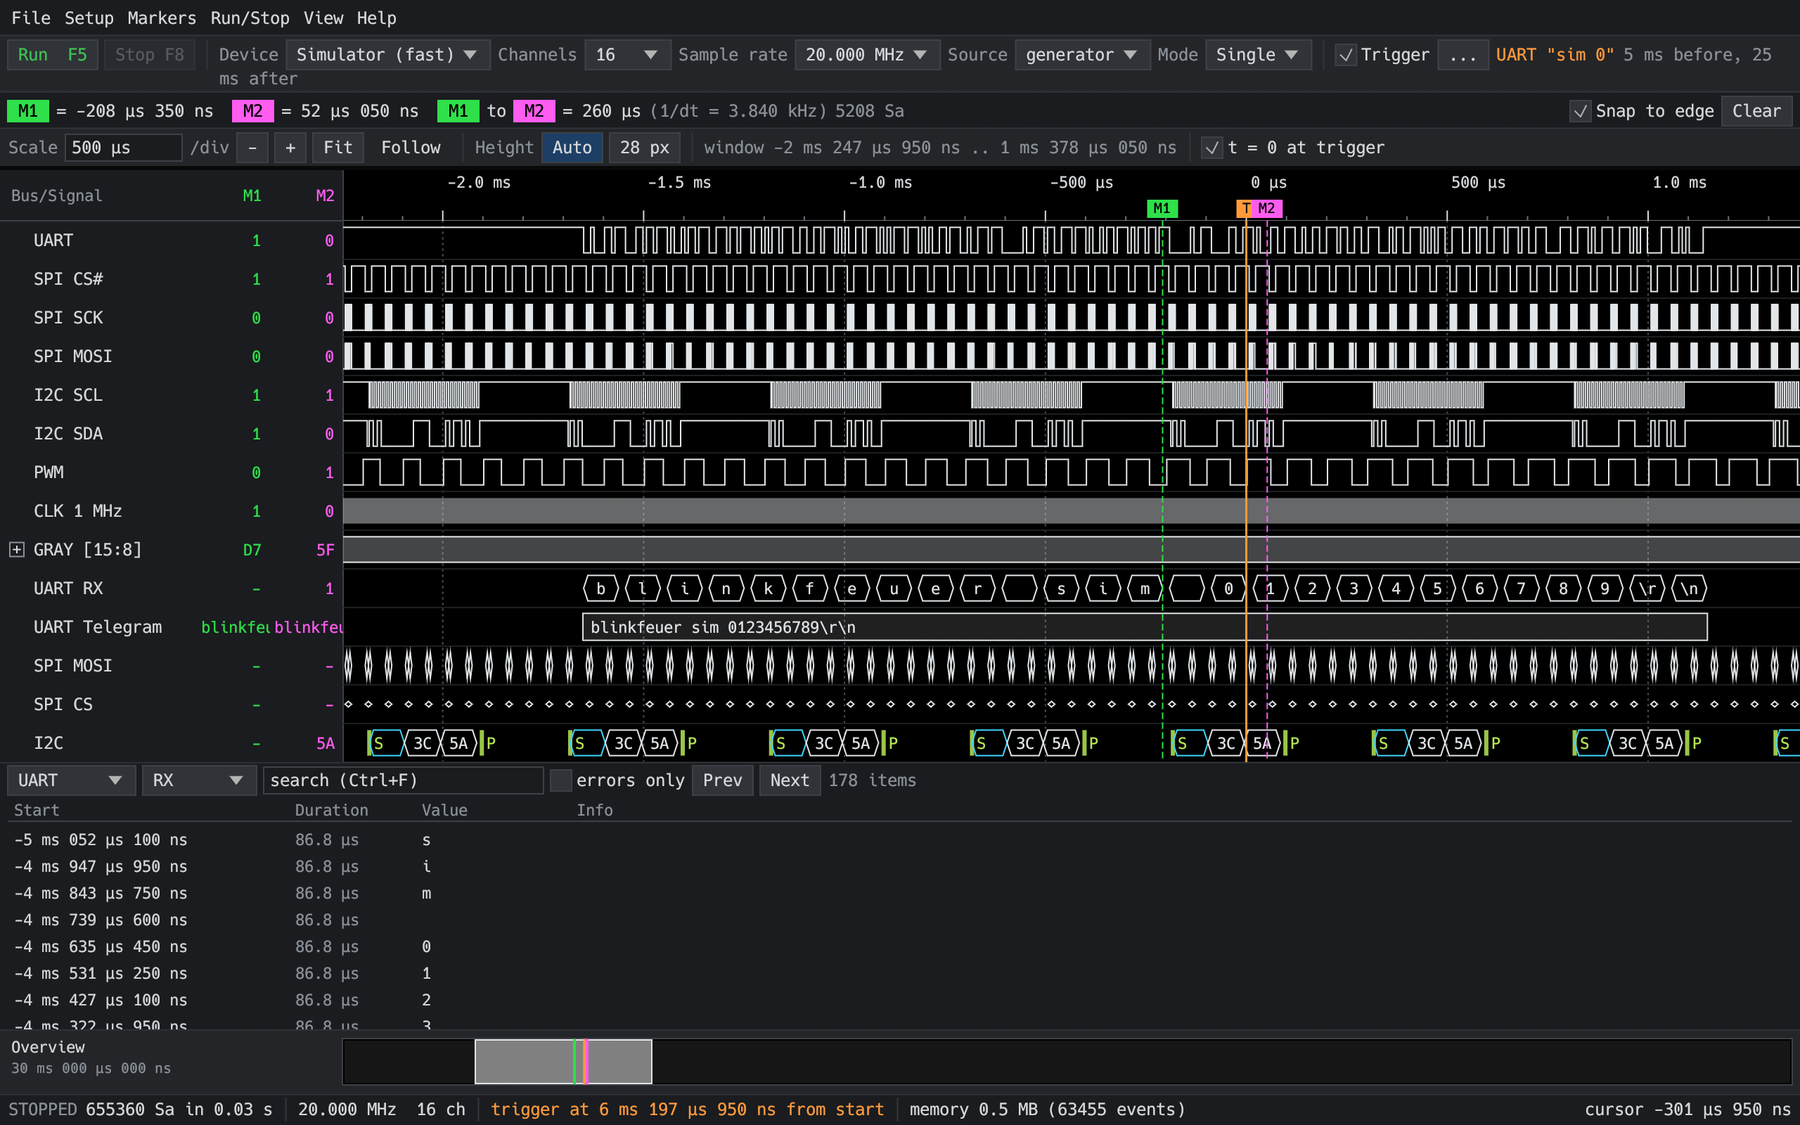
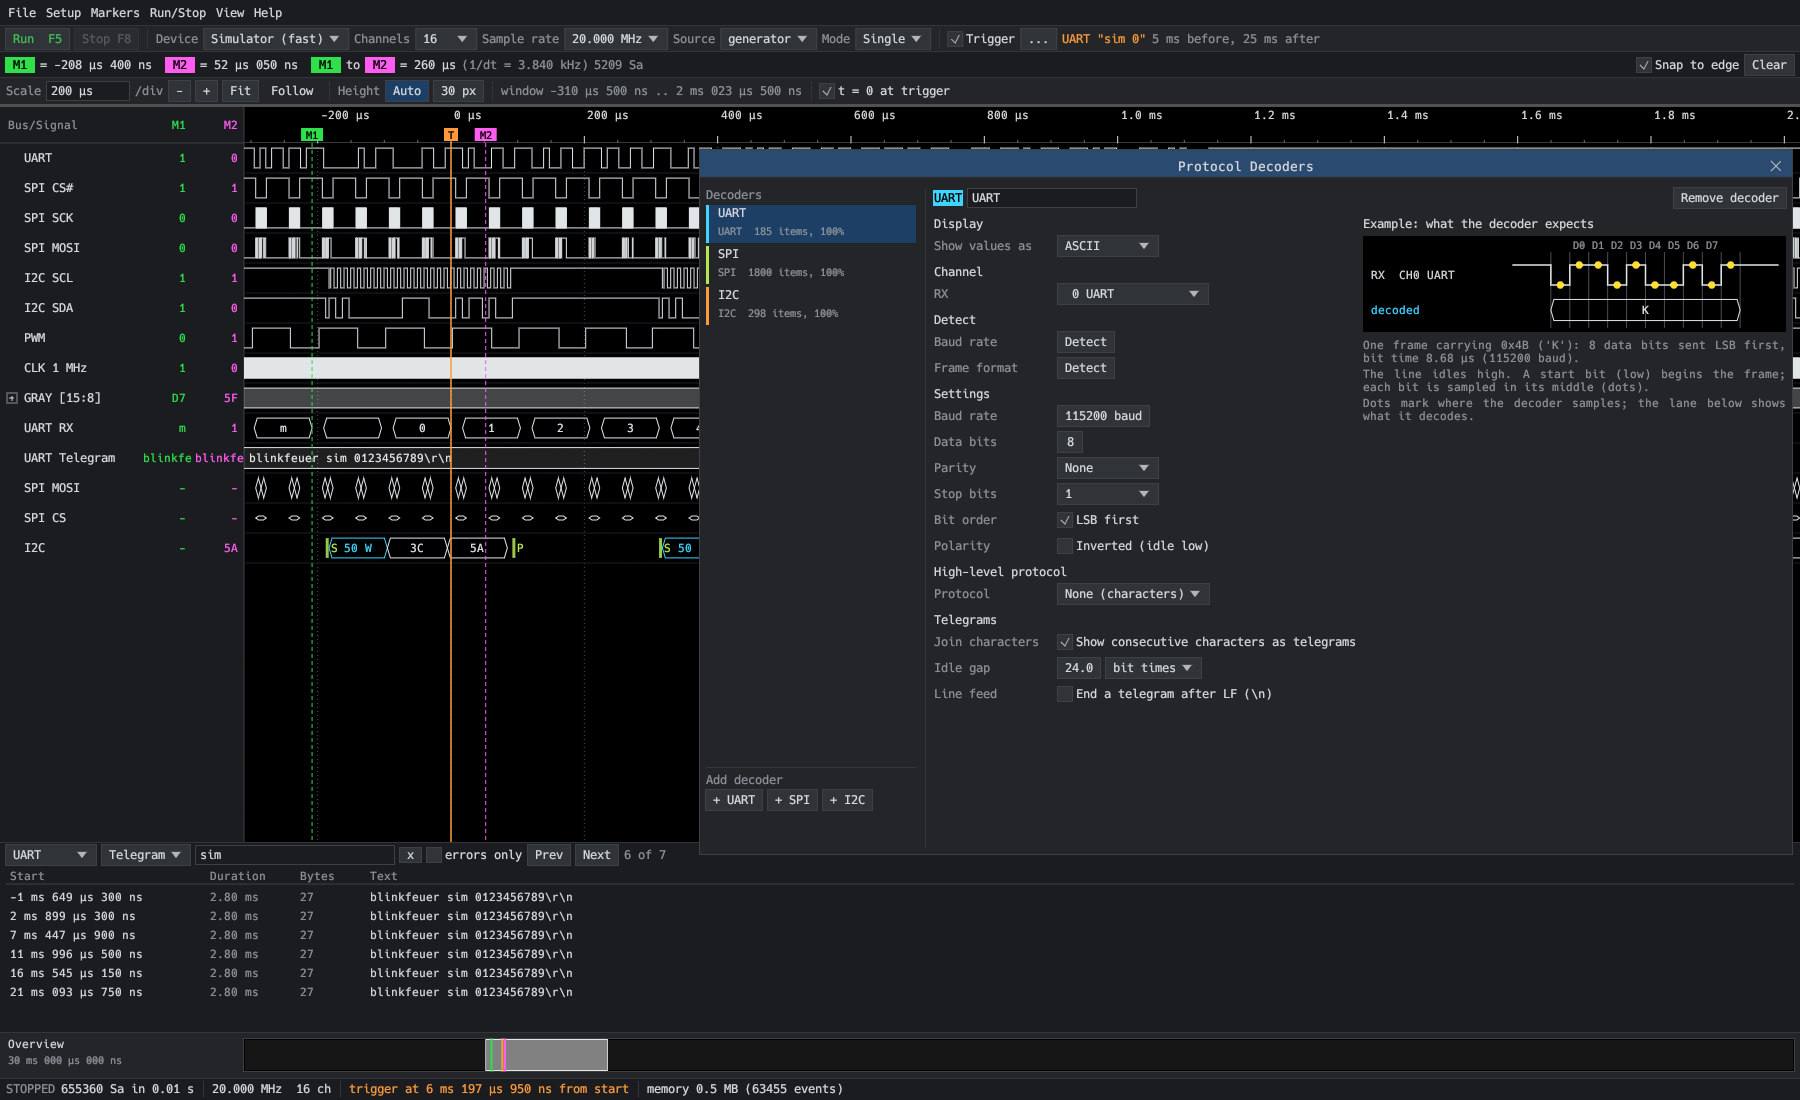
README: bring up to date, new screenshot
The README describes the pattern search of the decode table, decoder
settings shared with the trigger, the trigger example, Modbus frames in
the trigger, zoom at the pointer and the run/stop keys, and the FX2
backend as used with real signals. The screenshot shows the decoder
setup and the decode table next to the waveform; docs/screenshot.sh
makes it again.

diff --git a/README.md b/README.md
@@ -9,11 +9,12 @@ changes, so quiet signals cost almost no memory.
 
 *Blinkfeuer* is the old German word for a flashing beacon, the light that tells you something is out there.
 
-![Blinkfeuer showing a triggered capture of the simulator: UART, SPI and I2C decoded, with markers and the decode table](docs/screenshot.png)
+![Blinkfeuer showing a triggered capture of the simulator with UART, SPI and I2C decoded, the decoder setup and the decode table](docs/screenshot.png)
 
 The screenshot shows a capture of the built-in simulator, triggered on the UART text "sim 0" (the orange **T**), with
-the UART characters grouped into a telegram, SPI words, I2C transactions, two markers and the decode table.
-Times are counted from the trigger.
+the UART characters grouped into a telegram, SPI words, I2C transactions and two markers. The protocol decoder
+setup shows the UART settings next to an example of what the decoder expects; the decode table below lists the
+telegrams that contain "sim". Times are counted from the trigger. `docs/screenshot.sh` makes it again.
 
 It is made for the [Sipeed SLogic16U3](https://wiki.sipeed.com/hardware/en/logic_analyzer/slogic16u3/slogic16u3.html)
 (16 channels, USB 3), and has a simulator so you can try everything without hardware. Cheap 8 channel FX2
@@ -30,7 +31,8 @@ A working first version. What is verified and what is not:
   application when the analyzer runs it): written from the gateware's own library and tested against a fake
   register file, but **not yet run on the real device**. Everything except the USB calls is covered by tests.
 - **FX2 analyzers with fx2lafw** (`bfcli --device fx2lafw`, selectable in the application when one is attached):
-  8 channels, 20 kHz to 24 MHz, no threshold and no test patterns. blinkfeuer loads the firmware itself
+  8 channels, 20 kHz to 24 MHz, no threshold and no test patterns. Used on a Saleae Logic clone with real
+  signals (UART / Modbus RTU at 16 MHz, also through usbipd under WSL). blinkfeuer loads the firmware itself
   from sigrok's firmware directory, so install it first (Debian/Ubuntu: `sigrok-firmware-fx2lafw`; or set
   `BLINKFEUER_FIRMWARE_DIR`). The firmware cannot report lost data: when the host falls behind, the
   capture silently has a gap.
@@ -38,8 +40,8 @@ A working first version. What is verified and what is not:
 
 ## Features
 
-- **Live view** with zoom, pan, follow mode and an overview strip. Scale is given in time per division,
-  with times shown in groups ("10 ms 000 µs 400 ns").
+- **Live view** with zoom (at the pointer), pan, follow mode and an overview strip. Scale is given in
+  time per division, with times shown in groups ("10 ms 000 µs 400 ns"). F5 runs, F8 or Shift+F5 stops.
 - **Markers** M1 and M2 that snap to edges, with their delta and 1/dt; per-row values at the markers.
   The cursor keys move M1 (Shift: M2) from edge to edge of the selected row, or from item to item on a
   decoder row; Up/Down select the row, Home or F shows the whole capture.
@@ -52,15 +54,24 @@ A working first version. What is verified and what is not:
 - **Modbus RTU** on top of the UART decoder: frames found by the pause between them and checked by their
   CRC (also when a device answers too fast), each frame split into address, function, registers,
   values and CRC, with requests and responses told apart where the function allows it.
-- **Decode table** of the decoded items with search; clicking in the table moves the waveform and vice versa.
+- **Decode table** of the decoded items; clicking in the table moves the waveform and vice versa. The
+  search takes text or a pattern in the trigger language below: on characters, words or I2C events it
+  lists every item of a match, telegrams and Modbus frames are listed when they contain one.
 - **Triggers** (done on the host, the analyzer has none in hardware): level and edge conditions on any
-  channels, or a protocol trigger with a pattern: UART text or bytes, SPI words, or I2C events (S, Sr,
-  P, @50W addresses, data bytes, ! for NAK), each with X for free nibbles or bits and * for anything in
-  between, optionally also firing on the protocol's error (UART framing/parity error, incomplete SPI
-  word, I2C NAK); with Modbus RTU in the UART settings the pattern applies to whole frames from their
-  first byte, or to frames with a bad CRC. The trigger point is the start or the end of the match. Pre-trigger and
-  post-trigger are set separately in samples or time, times can be shown relative to the trigger, and a
-  triggered capture stops instead of dropping data when memory is full.
+  channels, or a protocol trigger with a pattern:
+  - UART text or bytes, SPI words, or I2C events (S, Sr, P, @50W addresses, data bytes, ! for NAK);
+  - X for free nibbles or bits (`4X`, `XX`, `0b1010XXXX`) and `*` for anything in between, e.g.
+    `S @50W 01 XX P`;
+  - optionally also firing on the protocol's error (UART framing/parity error, incomplete SPI word,
+    I2C NAK);
+  - with Modbus RTU in the UART settings the pattern applies to whole frames from their first byte
+    (`65 06 01 01`), or to frames with a bad CRC.
+
+  A protocol trigger can take its decoder settings from a decoder ("Settings from"), so they are set
+  only once, and the trigger window shows an example of what it looks for with the trigger point
+  marked. The trigger point is the start or the end of the match. Pre-trigger and post-trigger are set
+  separately in samples or time, times can be shown relative to the trigger, and a triggered capture
+  stops instead of dropping data when memory is full.
 - **Measurements** (View menu): edges, frequency, period, duty cycle and the shortest, mean and longest
   high and low pulse of every shown channel, over the visible window, between the markers or over the whole
   capture; copy as CSV.
@@ -117,7 +128,7 @@ analyzer does not show up on a port that worked before, rebinding the host contr
 |---|---|
 | `bf-core` | Sample formats, the capture store (sparse change events plus per-block summaries), trigger conditions |
 | `bf-device` | The device interface, the simulator, the stock-firmware, LiteX-gateware and fx2lafw backends, the capture session with the trigger logic |
-| `bf-decode` | UART, SPI and I2C decoders, the decoding engine, protocol triggers |
+| `bf-decode` | UART, SPI and I2C decoders, Modbus RTU on top of UART, baud rate and frame format detection, the decoding engine, the pattern language shared by protocol triggers and search |
 | `bf-io` | Capture file format and VCD export |
 | `bf-app` | The application (`blinkfeuer`) and the command line tool (`bfcli`) |
 
